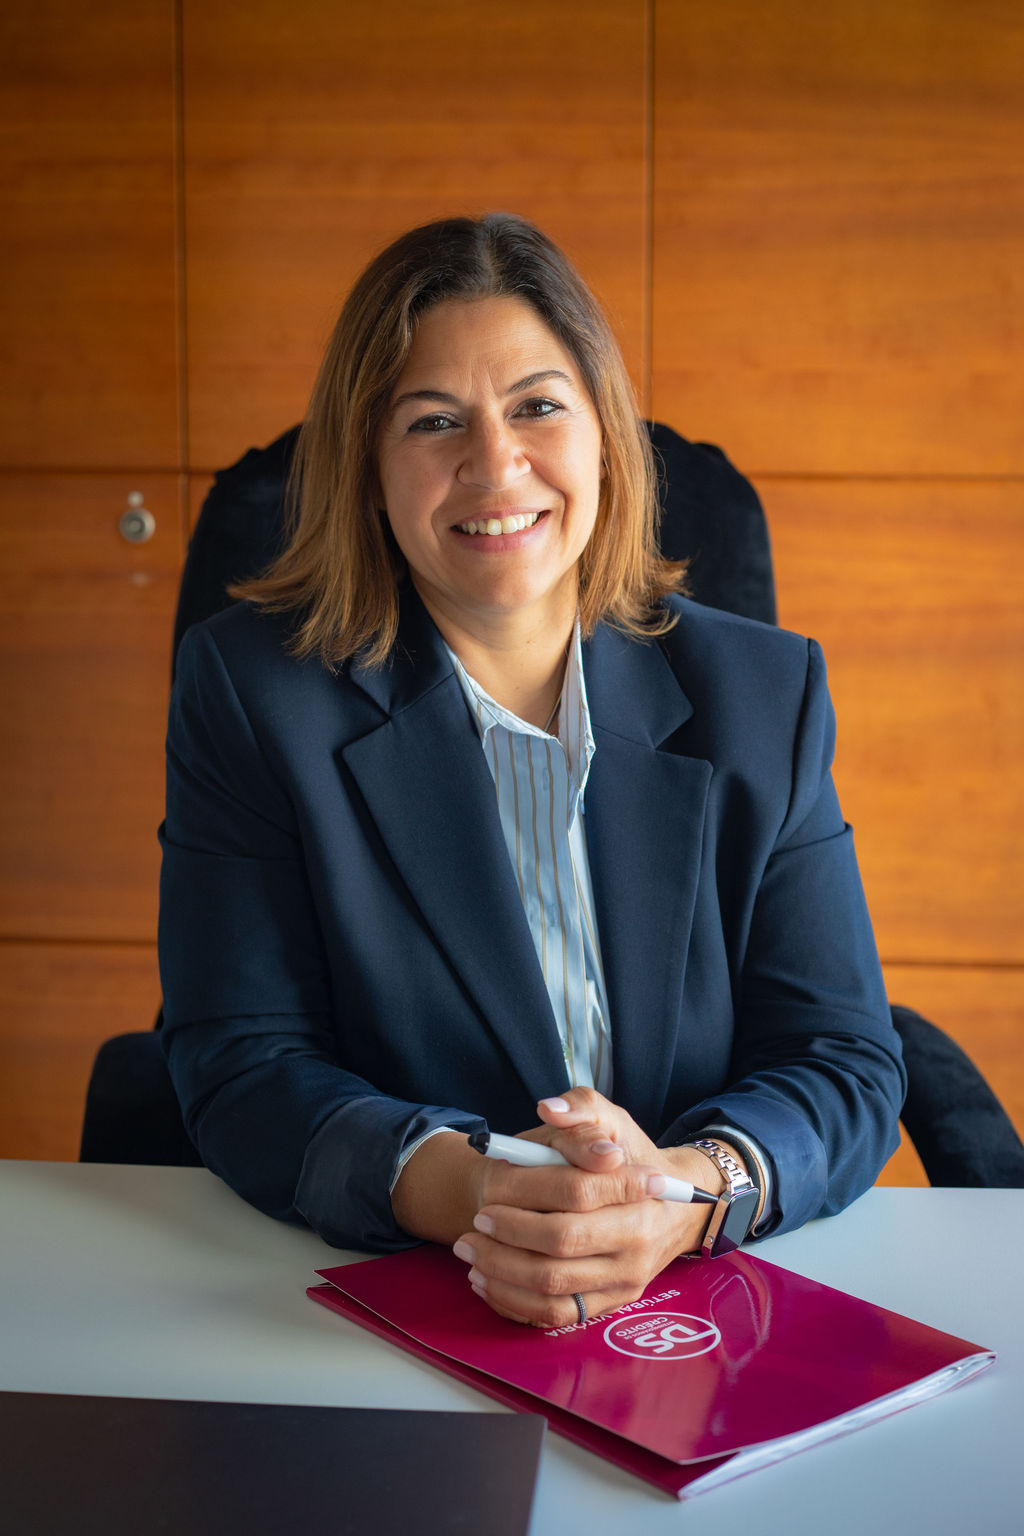
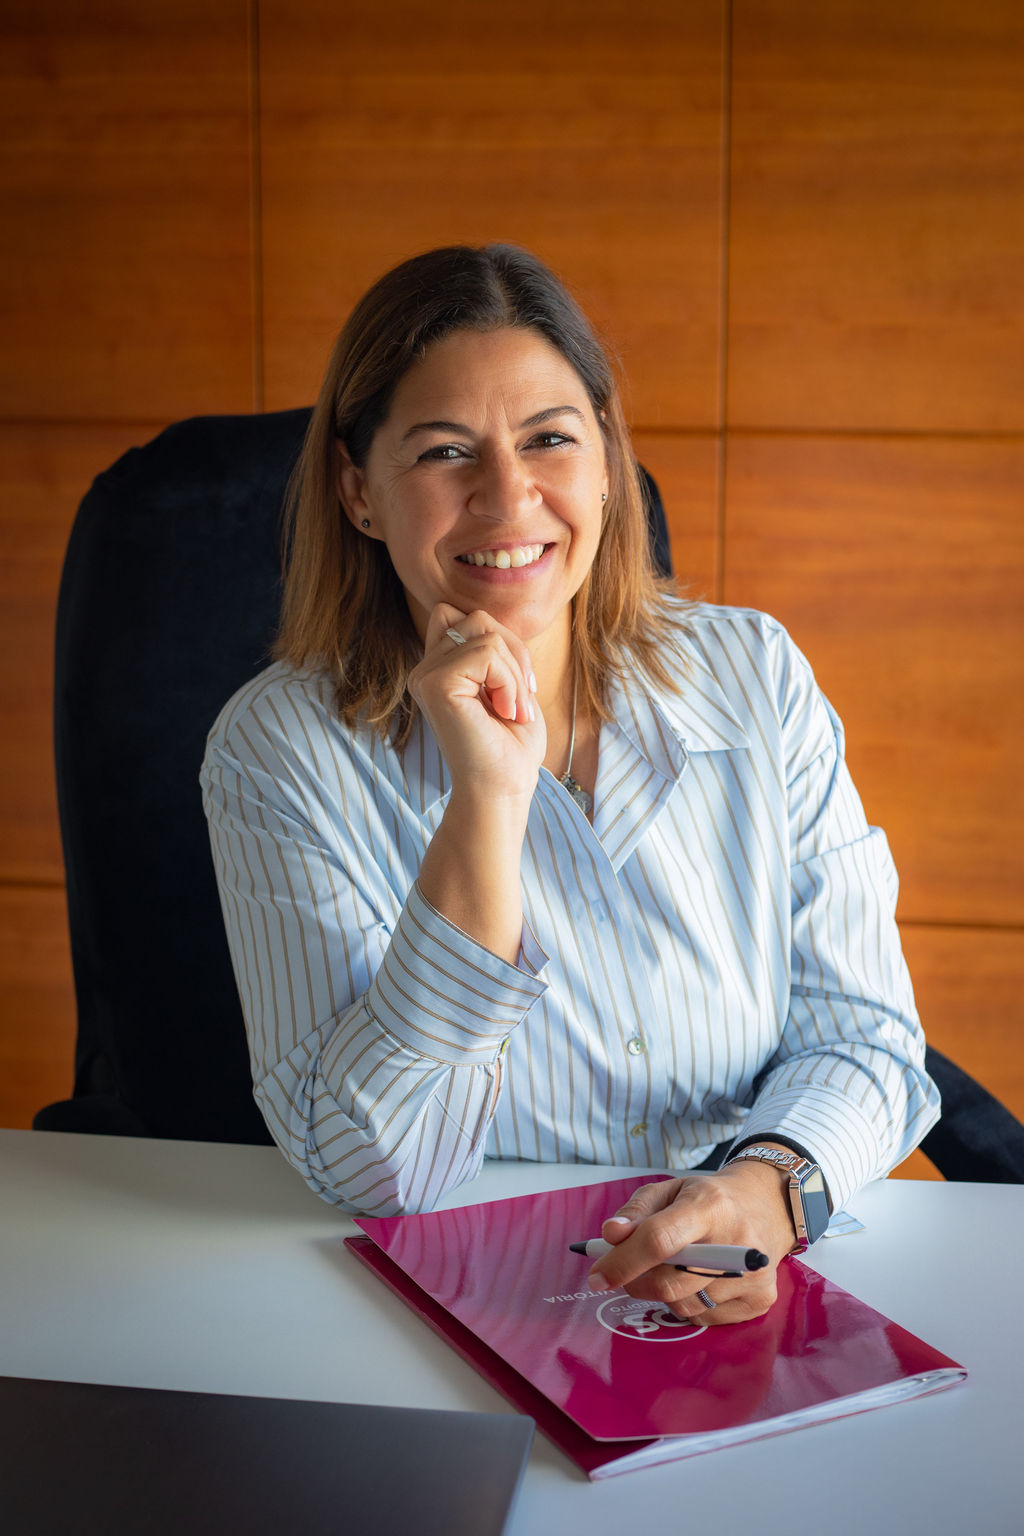
feat: add José Nobre, update roles and photo positioning
- Add José Nobre as 7th team member (Gestor de Crédito)
- Update roles: Paulo→CEO, Armanda→Diretora Comercial, Patrícia→Agente Sénior
- Layout: Paulo centered on top, 3x2 grid below on /equipa
- Homepage preview: Paulo, Armanda, Patrícia (3-column)
- Swap better photos for Patrícia, José Januário, José Nobre
- Fix object-position to use 'center Y%' for proper vertical cropping
- Per-member photoPosition for consistent head-to-circle spacing

diff --git a/src/lib/teamData.ts b/src/lib/teamData.ts
@@ -4,6 +4,7 @@ export interface TeamMember {
   role: { pt: string; en: string };
   bio: { pt: string; en: string };
   photo: string;
+  photoPosition?: string;
   featured: boolean;
   linkedin?: string;
   order: number;
@@ -14,14 +15,15 @@ export const teamMembers: TeamMember[] = [
     id: "paulo-brito",
     name: "Paulo Brito",
     role: {
-      pt: "Fundador / Agente de Intermediação",
-      en: "Founder / Credit Intermediation Agent",
+      pt: "CEO",
+      en: "CEO",
     },
     bio: {
       pt: "Mais de 20 anos de experiência em intermediação de crédito e solicitadoria. Fundador da Letraperfeiçoada e responsável pela estratégia e operações.",
       en: "Over 20 years of experience in credit intermediation and legal advisory. Founder of Letraperfeiçoada and head of strategy and operations.",
     },
     photo: "/team/paulo-brito.jpg",
+    photoPosition: "center 25%",
     featured: true,
     order: 1,
   },
@@ -29,14 +31,15 @@ export const teamMembers: TeamMember[] = [
     id: "armanda-amorim",
     name: "Armanda Amorim",
     role: {
-      pt: "Gestora de Crédito",
-      en: "Credit Manager",
+      pt: "Diretora Comercial",
+      en: "Commercial Director",
     },
     bio: {
       pt: "Especialista em crédito habitação com foco em angariação e acompanhamento de clientes particulares. Responsável pela equipa comercial.",
       en: "Specialist in mortgage credit focused on client acquisition and support. Leads the commercial team.",
     },
     photo: "/team/armanda-amorim.jpg",
+    photoPosition: "center 30%",
     featured: true,
     order: 2,
   },
@@ -44,14 +47,15 @@ export const teamMembers: TeamMember[] = [
     id: "patricia-pereira",
     name: "Patrícia Pereira",
     role: {
-      pt: "Gestora de Crédito",
-      en: "Credit Manager",
+      pt: "Agente Sénior",
+      en: "Senior Agent",
     },
     bio: {
       pt: "Gestão do programa de parcerias com imobiliárias, mediadores e promotores. Responsável pela expansão da rede de parceiros B2B.",
       en: "Manages the partnership program with real estate agencies, brokers, and promoters. Drives B2B partner network expansion.",
     },
     photo: "/team/patricia-pereira.jpg",
+    photoPosition: "center 40%",
     featured: true,
     order: 3,
   },
@@ -67,8 +71,25 @@ export const teamMembers: TeamMember[] = [
       en: "Specialized in client service and credit process management, ensuring a personalized experience.",
     },
     photo: "/team/lilia-fernandes.jpg",
-    featured: false,
+    photoPosition: "center 28%",
+    featured: true,
     order: 4,
+  },
+  {
+    id: "jose-nobre",
+    name: "José Nobre",
+    role: {
+      pt: "Gestor de Crédito",
+      en: "Credit Manager",
+    },
+    bio: {
+      pt: "Focado no acompanhamento de clientes e na gestão de processos de crédito com rigor e proximidade.",
+      en: "Focused on client support and credit process management with precision and proximity.",
+    },
+    photo: "/team/jose-nobre.jpg",
+    photoPosition: "center 32%",
+    featured: true,
+    order: 5,
   },
   {
     id: "armando-serra",
@@ -82,8 +103,9 @@ export const teamMembers: TeamMember[] = [
       en: "Focused on credit analysis and process management with financial institutions.",
     },
     photo: "/team/armando-serra.jpg",
-    featured: false,
-    order: 5,
+    photoPosition: "center 50%",
+    featured: true,
+    order: 6,
   },
   {
     id: "jose-januario",
@@ -97,7 +119,8 @@ export const teamMembers: TeamMember[] = [
       en: "Dedicated to personalized client support in securing the best credit conditions.",
     },
     photo: "/team/jose-januario.jpg",
-    featured: false,
-    order: 6,
+    photoPosition: "center 30%",
+    featured: true,
+    order: 7,
   },
 ];

diff --git a/src/components/TeamGrid.tsx b/src/components/TeamGrid.tsx
@@ -45,7 +45,8 @@ function TeamMemberCard({ member, index }: { member: (typeof teamMembers)[number
               alt={member.name}
               width={176}
               height={176}
-              className="w-full h-full object-cover object-top grayscale group-hover:grayscale-0 transition-all duration-500"
+              className="w-full h-full object-cover grayscale group-hover:grayscale-0 transition-all duration-500"
+              style={{ objectPosition: member.photoPosition || 'center' }}
               onError={() => setImgError(true)}
             />
           )}
@@ -73,6 +74,7 @@ function TeamMemberCard({ member, index }: { member: (typeof teamMembers)[number
 
 export default function TeamGrid() {
   const sorted = [...teamMembers].sort((a, b) => a.order - b.order);
+  const [leader, ...agents] = sorted;
 
   return (
     <section className="py-20">
@@ -83,9 +85,17 @@ export default function TeamGrid() {
         viewport={{ once: true }}
         className="max-w-7xl mx-auto px-6 lg:px-8"
       >
+        {/* CEO — centered on top */}
+        <div className="flex justify-center mb-8">
+          <div className="w-full max-w-sm">
+            <TeamMemberCard member={leader} index={0} />
+          </div>
+        </div>
+
+        {/* Agents — 3-column grid */}
         <div className="grid grid-cols-1 md:grid-cols-2 lg:grid-cols-3 gap-8">
-          {sorted.map((member, index) => (
-            <TeamMemberCard key={member.id} member={member} index={index} />
+          {agents.map((member, index) => (
+            <TeamMemberCard key={member.id} member={member} index={index + 1} />
           ))}
         </div>
       </motion.div>

diff --git a/src/components/TeamPreview.tsx b/src/components/TeamPreview.tsx
@@ -42,6 +42,7 @@ function TeamCard({
             src={member.photo}
             alt={member.name}
             className="w-full h-full object-cover grayscale group-hover:grayscale-0 transition-all duration-500"
+            style={{ objectPosition: member.photoPosition || 'center' }}
             onError={() => setImgError(true)}
           />
         )}
@@ -77,9 +78,8 @@ function TeamCard({
 export default function TeamPreview() {
   const { locale, t } = useLanguage();
 
-  const featuredMembers = teamMembers
-    .filter((m) => m.featured)
-    .sort((a, b) => a.order - b.order);
+  const sorted = [...teamMembers].sort((a, b) => a.order - b.order);
+  const previewMembers = sorted.slice(0, 3);
 
   // Split headline
   const headline = t.team.headline;
@@ -129,7 +129,7 @@ export default function TeamPreview() {
           </p>
         </motion.div>
 
-        {/* Team Cards */}
+        {/* Team Cards — Paulo, Armanda, Patrícia */}
         <motion.div
           variants={staggerContainer}
           initial="hidden"
@@ -137,7 +137,7 @@ export default function TeamPreview() {
           viewport={{ once: true, margin: "-100px" }}
           className="grid grid-cols-1 md:grid-cols-3 gap-8"
         >
-          {featuredMembers.map((member, index) => (
+          {previewMembers.map((member, index) => (
             <TeamCard
               key={member.id}
               member={member}
